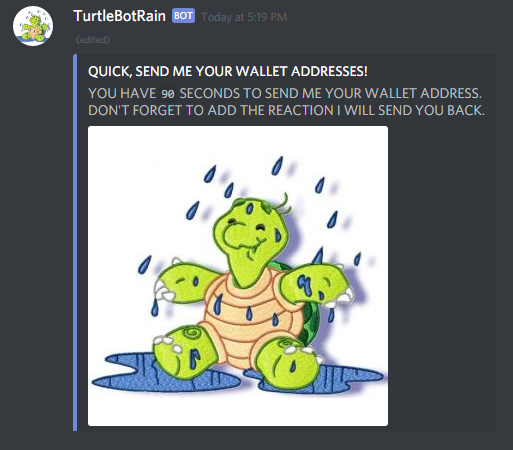
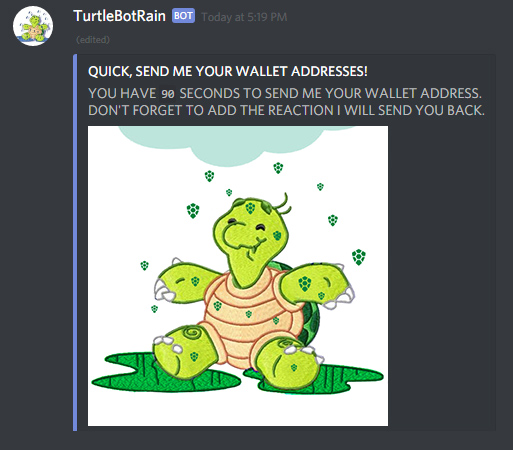
Updated raindance guide images and new screen recording video

Changed region(s): [[0.1559, 0.28, 0.7797, 0.9022], [0.6238, 0.4667, 0.6862, 0.5289], [0.5926, 0.3733, 0.655, 0.4356]]

diff --git a/guides/Participating-in-Raindance.md b/guides/Participating-in-Raindance.md
@@ -2,6 +2,9 @@
 
 This guide will walk you through the process.
 
+Here's a quick screen recording video of a raindance taking place:
+[TurtleCoin - Participating in Raindance on Vimeo](https://vimeo.com/258816694)
+
 ## raindance
 
 ![Raindance Channel](images/raindance/rain1.jpg)
